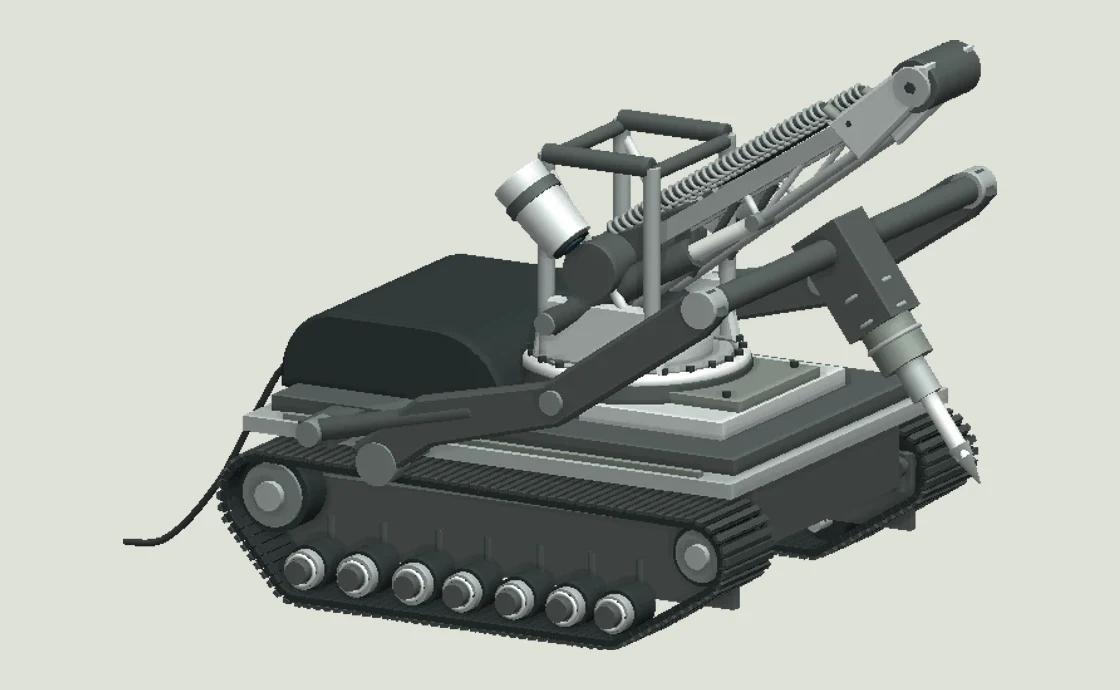
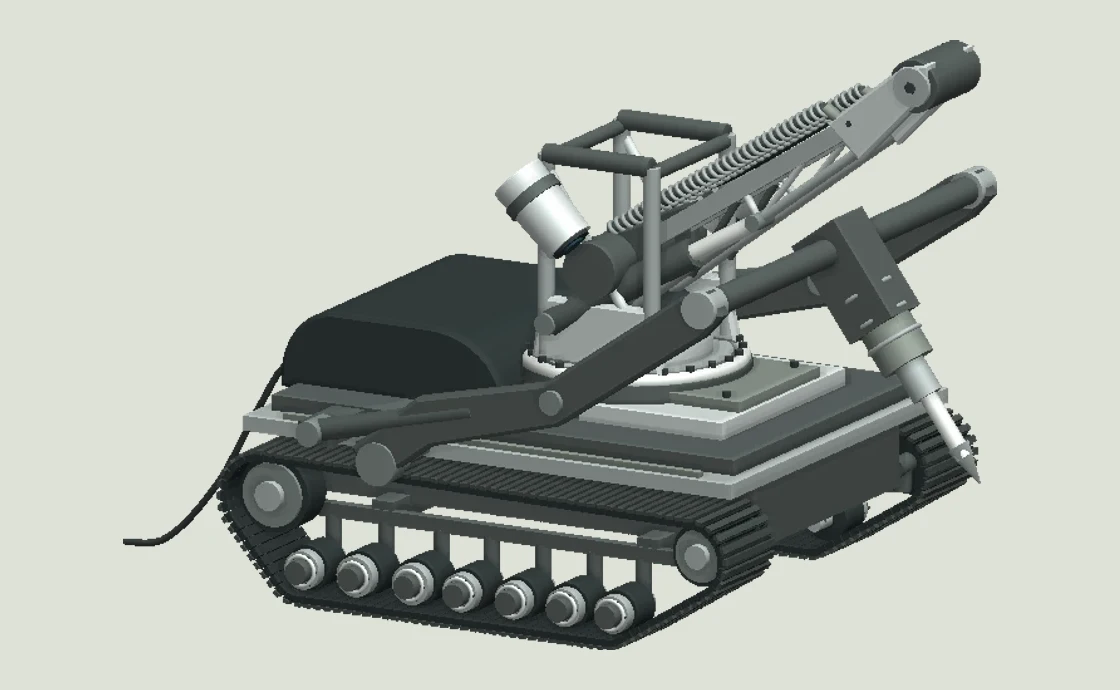
Verify four rendered configurations and add isolated real-browser QA

Changed region(s): [[0.25, 0.7, 0.6875, 0.8826], [0.75, 0.7, 0.8438, 0.7913]]

diff --git a/mobot-engineering-v21-model.js b/mobot-engineering-v21-model.js
@@ -205,7 +205,7 @@ export function makeMobot(THREE, quality='auto') {
     const g=new THREE.Group();g.position.z=z;tracks.add(g);
     const id='tracks';
     // Axles bridge the faces and a simplified inner carrier. Depth and support design are C.
-    box(g,[1.65,.24,.035],[.02,.38,-sign*.081],m.frame,id);
+    box(g,[1.52,.045,.035],[.02,.395,-sign*.081],m.frame,id);
     for(const {x,y,r:outer} of lowerWheels){
       beam(g,[x,y,-sign*.085],[x,.38,-sign*.085],.025,m.frame,id);
       cylinder(g,.025,.025,.16,[x,y,-sign*.036],m.satin,id,'z',16);
@@ -402,7 +402,7 @@ export function makeMobot(THREE, quality='auto') {
   gripper.add(fingerHead);
   // The opposing broad plates read across the frontal image (#3).
   // Roll about the hanging tool axis remains a single-view interpretation.
-  fingerHead.rotation.x=Math.PI/2;
+  fingerHead.rotation.x=Math.PI*.32;
   for(const z of [-.09,.09]){
     beam(fingerHead,[0,0,z],[-.08,.085,z],.020,m.frame,'gripper');
     beam(fingerHead,[0,0,z],[-.08,-.085,z],.020,m.frame,'gripper');

diff --git a/research/mobot/1987/QA-LOG.md b/research/mobot/1987/QA-LOG.md
@@ -9,7 +9,7 @@
 | Погрузчик | PASS | 12 комбинаций подъёма и наклона, оба привода и вершины кромки. Расхождение до 2,22 × 10⁻¹⁶. |
 | Наружное оборудование | PASS | Камеры следуют за опорой, кабель остаётся на шасси. Внутренние прокси исключены. |
 | Геометрия и иерархия | PASS | Настоящие геометрии Three.js, атрибуты вершин, матрицы экземпляров, мировые матрицы и родители в 81 позе. |
-| Предупреждения | PASS | Сработали в 48 из 81 комбинации. Коллизии в свободных позах допустимы; это испытание предупреждений. |
+| Предупреждения | PASS | Сработали в 50 из 81 комбинации. Коллизии в свободных позах допустимы; это испытание предупреждений. |
 | Явные отрывы | PASS | Граф пересечений габаритов с допуском 0,003 связан для трёх сборок. Отдельно проверены осевые точки приводов. |
 | Все контакты треугольников и реальные пределы движений | NOT RUN | Полный физический расчёт и заводские обмеры отсутствуют. |
 | Контрольные изображения | PASS | Программный растеризатор репозитория читает реальные сетки Three.js. Общий вид, боковой вид, оба молотка. |

diff --git a/research/mobot/1987/STATE.md b/research/mobot/1987/STATE.md
@@ -50,3 +50,7 @@
 ### 17.11.2026 23:24 МСК · Add isolated engineering viewer, source passport and model-derived fallback renders
 
 Предыдущий подтверждённый SHA `a87a499e4b86ebb303d346c605b75256d67259ef`. Этап H: создана версия просмотрщика, подготовлены четыре контрольных рендера. PR https://github.com/STEP3DLab/vr_anapa/pull/5 . Тест браузера ещё не подтверждён. Следующий шаг — три размера окна, WebGL2, резерв и публикация.
+
+### 17.11.2026 23:27 МСК · Verify four rendered configurations and add isolated real-browser QA
+
+Предыдущий подтверждённый SHA `d492f9fdc4c3e4281b13d93d620e1a7269456482`. По контролю сбоку сужена условная внутренняя опора, чтобы не перекрывать открытые участки между катками. Промежуточный поворот схвата (C) даёт читаемое раскрытие в двух ракурсах. Все шесть рекомендованных поз проходят контроль без предупреждений. На сетке из 81 положения — 50 предупреждений. Добавлена изолированная проверка GitHub Actions, общие workflows не изменены. Далее — получить и проверить фактический отчёт браузера.
